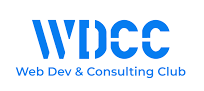
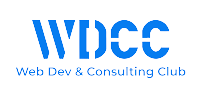
changed image background

diff --git a/src/Components/Home/Home.css b/src/Components/Home/Home.css
@@ -35,7 +35,10 @@
 
 .text-two {
     padding-top: 3vh;
+}
 
+.text-zero {
+    border-radius: 25px;
 }
 
 .text-three {
